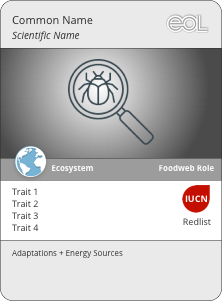
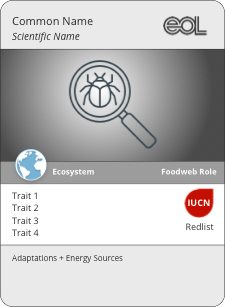
fix blank card

diff --git a/app/assets/stylesheets/cards.scss b/app/assets/stylesheets/cards.scss
@@ -41,9 +41,9 @@ $deck-title-color: #262626;
     display: none;
     font-size: 32px;
     line-height: 32px;
-    height: percentage(51 / $featured-card-height);
+    height: percentage(48 / $featured-card-height);
     left: percentage(10 / $featured-card-width);
-    padding-top: percentage(12 / $featured-card-width);
+    padding-top: percentage(9 / $featured-card-width);
     position: absolute;
     text-align: center;
     width: percentage(205 / $featured-card-width);
@@ -73,7 +73,7 @@ $deck-title-color: #262626;
     &.trait-card {
       &:hover, &.hover {
         .overlay {
-          height: percentage(195 / $featured-card-height);
+          height: percentage(196 / $featured-card-height);
           top: 16.2%;
         }
       }
